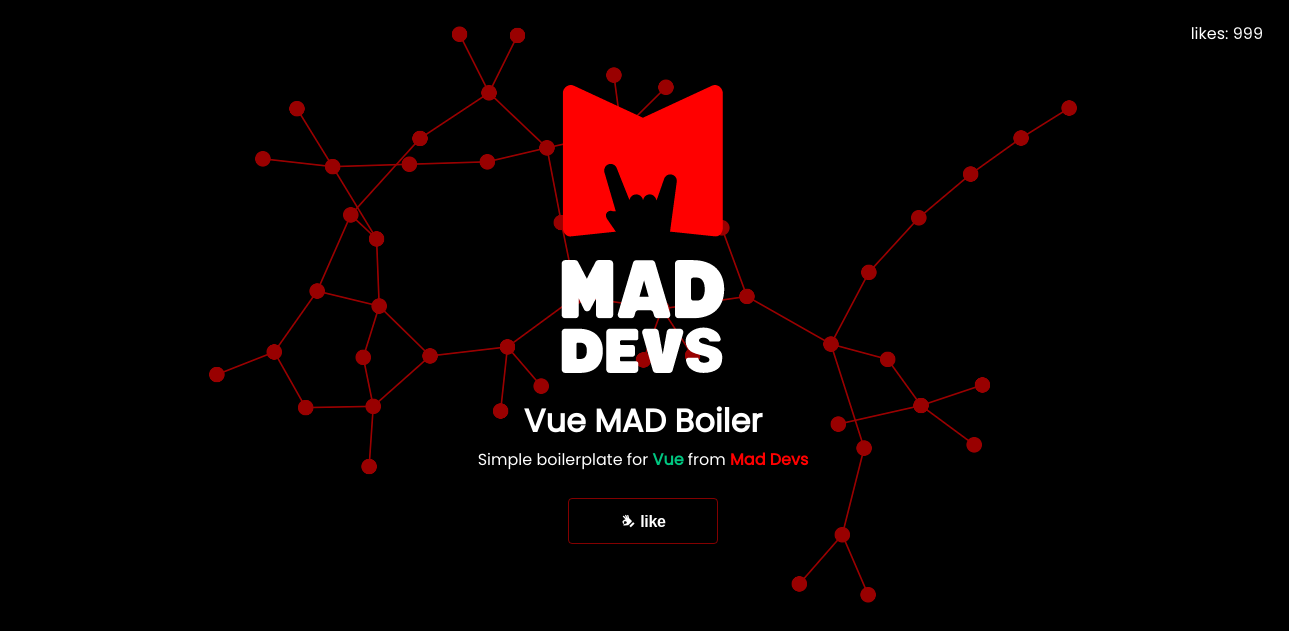
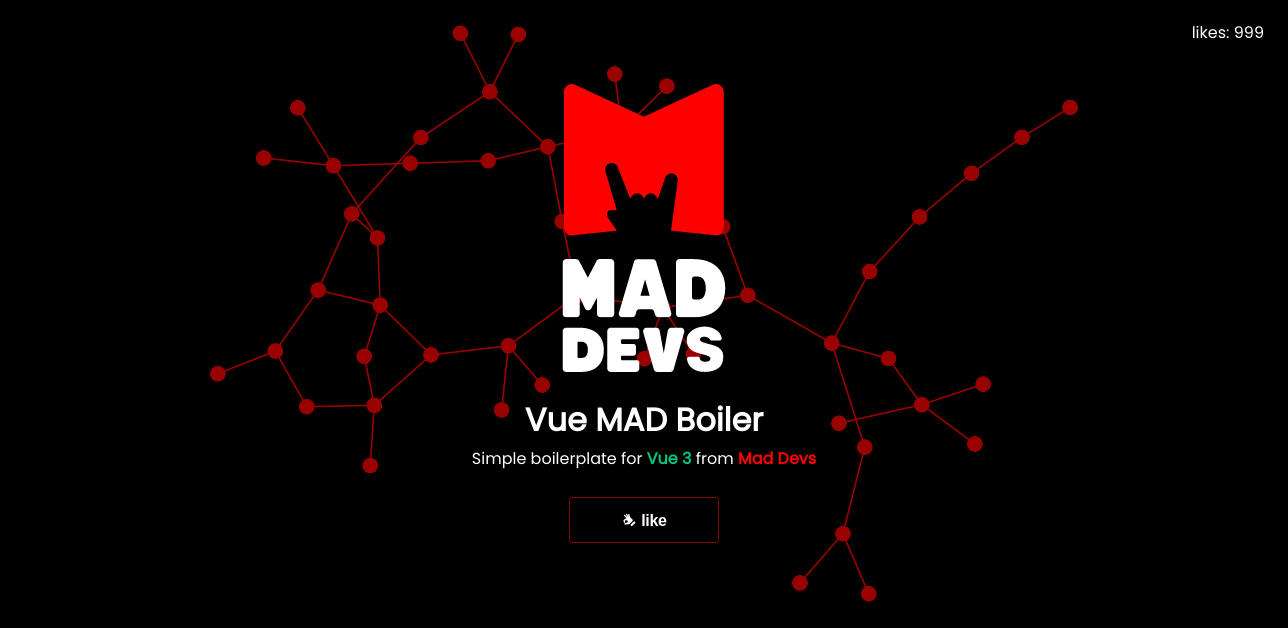
Minor fixes & Updated preview img

diff --git a/src/components/HelloWorld.vue b/src/components/HelloWorld.vue
@@ -9,9 +9,9 @@
     <h1>Vue MAD Boiler</h1>
     <p class="desc">
       Simple boilerplate for
-      <a href="https://vuejs.org/" target="_blank" class="vue">Vue</a>
+      <a href="https://vuejs.org/" target="_blank" class="vue">Vue 3</a>
       from
-      <a href="https:/maddevs.io" target="_blank" class="md">Mad Devs</a>
+      <a href="https:/maddevs.io/" target="_blank" class="md">Mad Devs</a>
     </p>
     <p class="likes">{{ desctiption }} {{ countFromStore }}</p>
     <UIButton v-WaveAnimation @click="_setLike">

diff --git a/cli/core/cleaner/index.js b/cli/core/cleaner/index.js
@@ -50,6 +50,9 @@ async function run(options) {
   const newPackageJson = packageJson.update(options);
   writeFile(JSON.stringify(newPackageJson, null, 2), `${root}/package.json`);
 
+  await removeFiles([`${root}/package-lock.json`]);
+  await removeFolders([`${root}/node_modules`]);
+
   // Remove sentry
   if (options.sentry) {
     await rm.removeLines(`${root}/src/main.js`, [2, 3, 8, 9, [13, 21]]);
